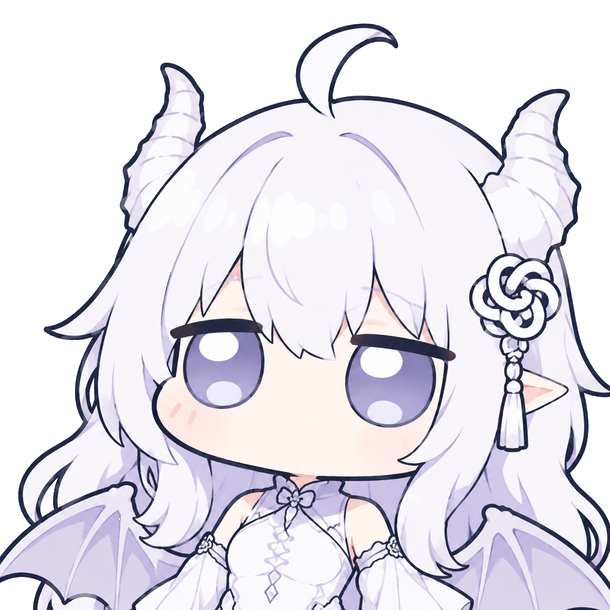
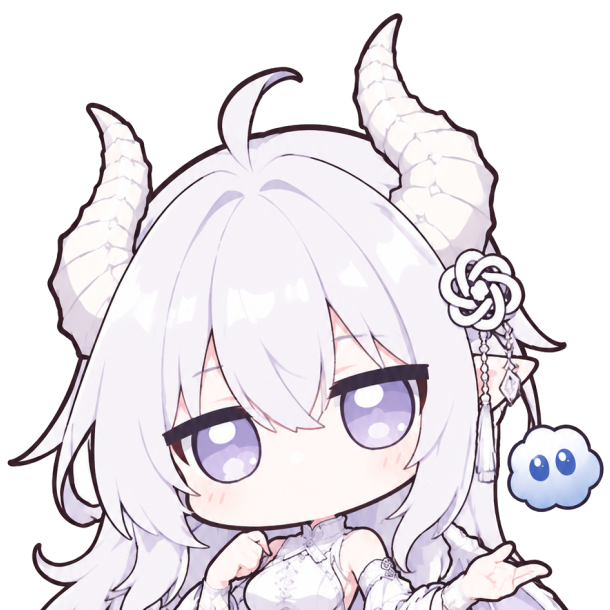
feat: 换 GPT/kimi 娘立绘、勾选对勾改白、渐变取宽；GLM 订阅会话按 Plane 口径显示
四条用户反馈：

- **GLM Plan 订阅会话仍显示「今日已用」**（截图）：`session.json` 的 provider 是
  bigmodel（open.bigmodel.cn、同一把 key 形状），名称上区分不出「订阅」与「按量」，
  于是解析成 glm → 按量账单口径，显示「GLM 今日已用 ¥7.27」——订阅持有者的 GLM
  用量扣的是**配额**，这个金额是虚构的（与「预付池不计真金白银」同一条口径）。
  现在 glm-plan-api 在取到套餐配额时记下「本账号有订阅」这个事实（level 是
  Coding Plan 专有字段；端点不再给套餐窗口时清空、瞬时失败不误清），
  resolveBillingSource 据此把 GLM 源修正为 Plan 口径——会话来源、每轮消耗、用量
  记录三处同一判据（都走这一个函数）。无订阅事实时行为不变；WB 线不接这条
  （那条线的 Plan 模块按原决定冻结）。
- **勾选对勾改白**：原先按填充明暗二选（浅填充给黑勾），现改为**默认白勾**、整套
  界面统一，只有填充亮到白勾看不清时才给深色勾（阈值取 WCAG 相对亮度 0.7——内置
  六个角色色都在阈值以下，一律白勾；用户手选接近白的颜色时对勾仍看得见）。
- **彩色渐变取宽**：补上发梢的黄绿段与另一端的青色段，色标由 5 档变 7 档
  （青 #9cd5d0 → 天蓝 #80c0f1 → 蓝 #76a1eb → 紫 #957ac4 → 粉 #d798e2 →
  黄绿 #cce1ac → 黄 #f2ebb6；深档同色相提亮）。气泡 SVG 渐变的 stop 改为**按色标
  数量现场创建**（不再受固定 5 个槽位限制）。
- **换立绘**：GPT娘 → 用户新给的 GPT_up.png、kimi娘 → kimi_up.png，都按其余角色的
  半身取景（头 + 上胸、内容近正方形 610×610、底对齐）重做。裁切判据同时修正：
  裁切高度改用**全局最大内容宽**（角/翼/尾巴在顶部就铺得很宽的立绘会把「跑到哪一行
  变方」的旧判据带偏——实测 GPT 那张只裁出 64×55 的窄条）。
- 测试：selftest 337→338（新增计费源 GLM 订阅修正一条：注入订阅 → plan、无订阅 →
  glm、其它厂商不受影响；另有勾选对勾与渐变色标的断言按新口径更新）；smoke-ui 112
  （渐变断言按 7 档色标更新；角色配色用例里的对勾期望改白）。

diff --git a/lib/widget.js b/lib/widget.js
@@ -352,8 +352,8 @@
     ':root:not(.zcwv-theme-dark) .zcwv-check{appearance:none;-webkit-appearance:none;position:relative;' +
       'box-sizing:border-box;border:1px solid var(--zcw-ink-input);border-radius:4px;background:var(--zcw-card)}',
     ':root:not(.zcwv-theme-dark) .zcwv-check:checked{background:var(--zcw-accent);background-image:var(--zcw-role-ink-grad,none);border-color:var(--zcw-accent)}',
-    // 对勾颜色按勾选底色的明暗二选（applyBubbleInk 写 --zcw-check-mark）：写死
-    // 白勾时，kimi娘这种浅色填充上的勾约 2.3:1，勾没勾只能靠底色深浅猜
+    // 对勾颜色（applyBubbleInk 写 --zcw-check-mark）：默认白勾、整套界面统一；
+    // 只有填充亮到白勾看不清时才给深色勾（见 readableOn 的亮度阈值）
     ':root:not(.zcwv-theme-dark) .zcwv-check:checked::after{content:"";position:absolute;left:4px;top:1px;' +
       'width:5px;height:9px;border:solid var(--zcw-check-mark,var(--zcw-card));border-width:0 2px 2px 0;transform:rotate(45deg)}',
     '.zcwv-menu-sep{height:1px;background:var(--zcw-ink-sep);margin:6px 0}',
@@ -857,12 +857,13 @@
   // 额度卡进度条、菜单按钮条纹、勾选框填充、滑块圆点、角色行圆点；正文与各档
   // 描边/小字仍走 inkPairOf 的实色（渐变不能作 color，且正文要按 4.5:1 派生）。
   // 用户在配色弹层给该角色定过色（inkOverrides 有该角色）时整条渐变不生效——手选优先。
-  // 色标取自角色立绘本身：哈基米按色相分桶采样她的发色（蓝 → 紫 → 粉 → 黄，
-  // 深档 = 同色相提亮，与其余角色「深色档更淡更亮」的观感一致）。
+  // 色标取自角色立绘本身：哈基米按色相分桶采样她的发色，取**整段**配色
+  //（青 → 天蓝 → 蓝 → 紫 → 粉 → 黄绿 → 黄；2026-10-16 拓宽一次，补上发梢的
+  // 黄绿段与另一端的青色段）。深档 = 同色相提亮，与其余角色「深色档更淡更亮」一致。
   var ROLE_INK_GRADIENT = {
     gemini: {
-      light: ['#7cbfef', '#76a1eb', '#957ac4', '#d798e2', '#f2d39b'],
-      dark: ['#a7d4f5', '#a5c1f2', '#b8a3d9', '#e4b5d3', '#f6e4b6'],
+      light: ['#9cd5d0', '#80c0f1', '#76a1eb', '#957ac4', '#d798e2', '#cce1ac', '#f2ebb6'],
+      dark: ['#bee3e0', '#abd5f6', '#a5c1f2', '#b9a7d8', '#e5bbec', '#ddebc8', '#f6f2cf'],
     },
   }
   function inkGradientStops(id) {
@@ -875,19 +876,20 @@
   function inkGradientCss(stops) {
     return 'linear-gradient(135deg, ' + stops.join(', ') + ')'
   }
-  // 把色标写进气泡 SVG 的 zcwInkGrad：stops 数量可以少于 defs 里的 5 个槽位，
-  // 多余的槽位统一取最后一个色（offset 也压到 100%），保证渐变首尾仍然铺满。
-  // 用 document.querySelector 而不是 bubbleBox 变量：本函数可能在气泡 DOM 建好
-  // 之前就被 applyBubbleInk 调到（初始化顺序），那时 bubbleBox 还是 undefined。
+  // 把色标写进气泡 SVG 的 zcwInkGrad：stop 节点**按色标数量现场建**（不再受固定
+  // 槽位数限制——色标可多可少，首尾各占 0 / 1）。用 document.querySelector 而不是
+  // bubbleBox 变量：本函数可能在气泡 DOM 建好之前就被 applyBubbleInk 调到。
   function paintInkGradientDefs(stops) {
-    var nodes = document.querySelectorAll('#zcwInkGrad .zcwv-inkstop')
-    if (!nodes.length) return false
-    for (var i = 0; i < nodes.length; i++) {
-      var last = i >= stops.length - 1
-      var color = last ? stops[stops.length - 1] : stops[i]
-      nodes[i].setAttribute('stop-color', color)
-      var offset = stops.length > 1 ? Math.min(i, stops.length - 1) / (stops.length - 1) : 0
-      nodes[i].setAttribute('offset', String(last ? 1 : offset))
+    var grad = document.querySelector('#zcwInkGrad')
+    if (!grad) return false
+    while (grad.firstChild) grad.removeChild(grad.firstChild)
+    var NS = 'http://www.w3.org/2000/svg'
+    for (var i = 0; i < stops.length; i++) {
+      var stop = document.createElementNS(NS, 'stop')
+      stop.setAttribute('class', 'zcwv-inkstop')
+      stop.setAttribute('offset', String(stops.length > 1 ? i / (stops.length - 1) : 0))
+      stop.setAttribute('stop-color', stops[i])
+      grad.appendChild(stop)
     }
     return true
   }
@@ -940,9 +942,11 @@
     }
     return toward
   }
-  // 在这个底色上选更清楚的那个字色（浅色填充上的对勾用它，别写死白勾）
+  // 勾选对勾的颜色：**默认白勾**（与嘎啦嘛 / 大肥鱼那种深色填充一致，整套界面观感
+  // 统一）；只有填充浅到白勾看不清时才给深色勾——阈值取 WCAG 相对亮度 0.7，内置六个
+  // 角色的墨色都在阈值以下（一律白勾），用户手选接近白的颜色时对勾仍看得见。
   function readableOn(bg) {
-    return contrastRatio('#ffffff', bg) >= contrastRatio('#000000', bg) ? '#ffffff' : '#000000'
+    return relLuminance(bg) > 0.7 ? '#000000' : '#ffffff'
   }
 
   function applyBubbleInk() {
@@ -2414,14 +2418,11 @@
 
   var bubbleBox = el('div', 'zcwv-bubble')
   // 气泡几何与上游一致：viewBox 1026x700，大椭圆 + 尾巴半椭圆 + 两个小气泡。
-  // defs 里的 zcwInkGrad 给「彩色渐变角色」的气泡描边用（applyBubbleInk 写色标，
-  // 并把 --zcw-bubble-ink 换成 url(#zcwInkGrad)）；非渐变角色这个渐变不会被引用。
+  // defs 里的 zcwInkGrad 给「彩色渐变角色」的气泡描边用（applyBubbleInk 按角色色标
+  // 现场填 stop，并把 --zcw-bubble-ink 换成 url(#zcwInkGrad)）；非渐变角色不引用它。
   bubbleBox.innerHTML =
     '<svg viewBox="0 0 1026 700" preserveAspectRatio="xMidYMid meet" xmlns="http://www.w3.org/2000/svg">' +
-    '<defs><linearGradient id="zcwInkGrad" x1="0" y1="0" x2="1" y2="1">' +
-    '<stop class="zcwv-inkstop" offset="0"></stop><stop class="zcwv-inkstop" offset="0.25"></stop>' +
-    '<stop class="zcwv-inkstop" offset="0.5"></stop><stop class="zcwv-inkstop" offset="0.75"></stop>' +
-    '<stop class="zcwv-inkstop" offset="1"></stop></linearGradient></defs>' +
+    '<defs><linearGradient id="zcwInkGrad" x1="0" y1="0" x2="1" y2="1"></linearGradient></defs>' +
     '<path class="zcwv-bshape" fill="#FFFFFF" stroke="#203170" stroke-width="18" stroke-linejoin="round" stroke-linecap="round" d="M 827 248 A 373 232 0 1 0 81 246 A 373 232 0 0 0 301 465 A 57 32 10 0 0 413 484 A 373 232 0 0 0 827 248 Z"/>' +
     '<ellipse class="zcwv-b1" cx="352" cy="561" rx="37.5" ry="26" fill="#FFFFFF" stroke="#203170" stroke-width="18"/>' +
     '<ellipse class="zcwv-b2" cx="442" cy="646" rx="24.5" ry="18" fill="#FFFFFF" stroke="#203170" stroke-width="18"/>' +

diff --git a/skills/zcode-fox-widget/SKILL.md b/skills/zcode-fox-widget/SKILL.md
@@ -86,7 +86,7 @@ node "${ZCODE_PLUGIN_ROOT}/lib/cli.mjs" desktop install # 安装 Electron 运行
 角色下拉里每一行末尾的小圆点是配色入口，点开是「气泡配色 · <角色名>」弹层：浅色 / 深色两档各有一个内嵌 HSV 调色板（色相条 + 饱和度明度面，拖动实时预览、松手才落盘）、一个 HEX/RGB 文本框（收 `#1A2B3C` / `26,43,60` / `rgb(26,43,60)` 三种写法，回车或失焦应用），下面五个预设色块可一键套用某个内置角色的整套配色，「恢复默认」清掉本角色的覆盖。
 
 - **持久化**：写进挂件状态的 `inkOverrides`（`~/.zcode/whale/widget-state.json` 的 `inkOverrides[角色 id] = { light, dark }`）。清掉某个角色的键，或点「恢复默认」，即回到内置配色。
-- **浅色档整套界面跟随角色**：浅色主题下菜单 / 二级页面 / 文本框 / 下拉 / 拖动条都取角色墨色（深色档刻意不跟，保持主题中性）。其中**正文**取的是按 4.5:1 派生出来的达标色（`--zcw-role-ink-text`），**装饰件**（描边 / 填充 / 进度条 / 激活态 / 焦点环）用角色原色，勾选对勾按填充明暗二选黑白——所以像 kimi娘 `#ad81ff`（对白底仅 2.85:1）也能有达标的正文，同时保住角色色彩特征。
+- **浅色档整套界面跟随角色**：浅色主题下菜单 / 二级页面 / 文本框 / 下拉 / 拖动条都取角色墨色（深色档刻意不跟，保持主题中性）。其中**正文**取的是按 4.5:1 派生出来的达标色（`--zcw-role-ink-text`），**装饰件**（描边 / 填充 / 进度条 / 激活态 / 焦点环）用角色原色，勾选对勾**默认白色**（只有填充浅到白勾看不清时才给深色勾）——所以像 kimi娘 `#ad81ff`（对白底仅 2.85:1）也能有达标的正文，同时保住角色色彩特征。
 - **改坏了怎么回**：菜单角色下拉 → 该行圆点 → 「恢复默认」；或直接编辑 `~/.zcode/whale/widget-state.json` 把 `inkOverrides` 清空 / 删掉该角色键。
 - 实现位置：`lib/widget.js` 的 `ROLE_INK_PAIR`（内置两档色值）、`applyBubbleInk()`（写 CSS 变量）、`ensureContrast()`/`readableOn()`（对比度派生，纯函数，`tools/selftest.mjs` 逐个内置角色断言）、以及 CSS 里那条 `:root:not(.zcwv-theme-dark)` 覆盖规则。
 
